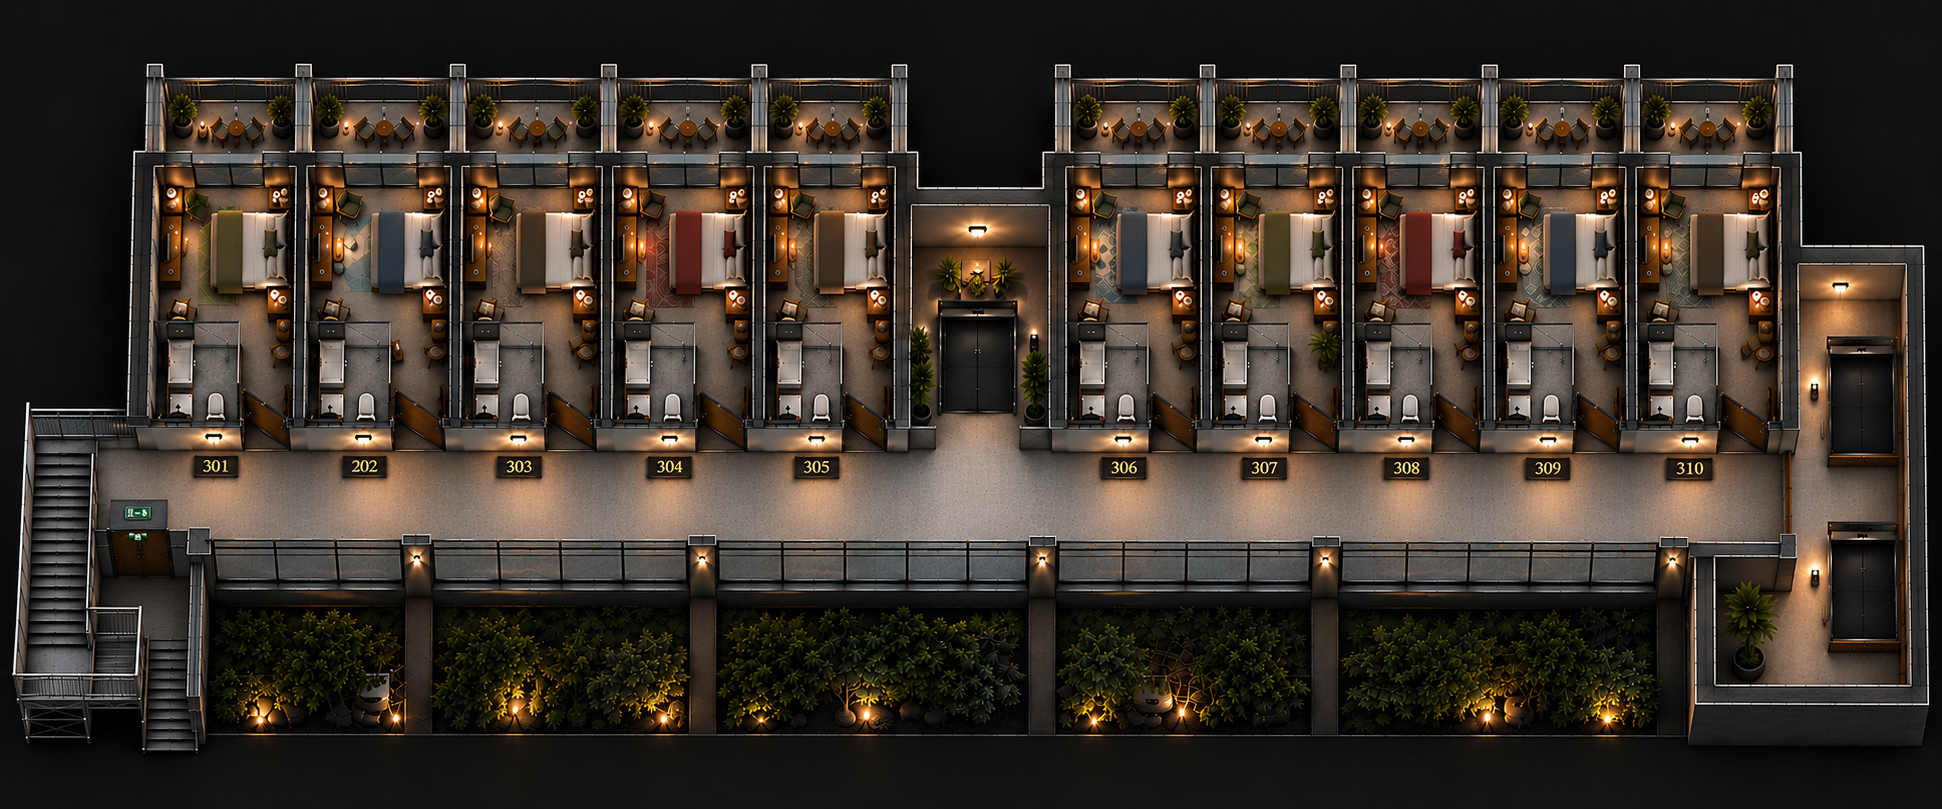
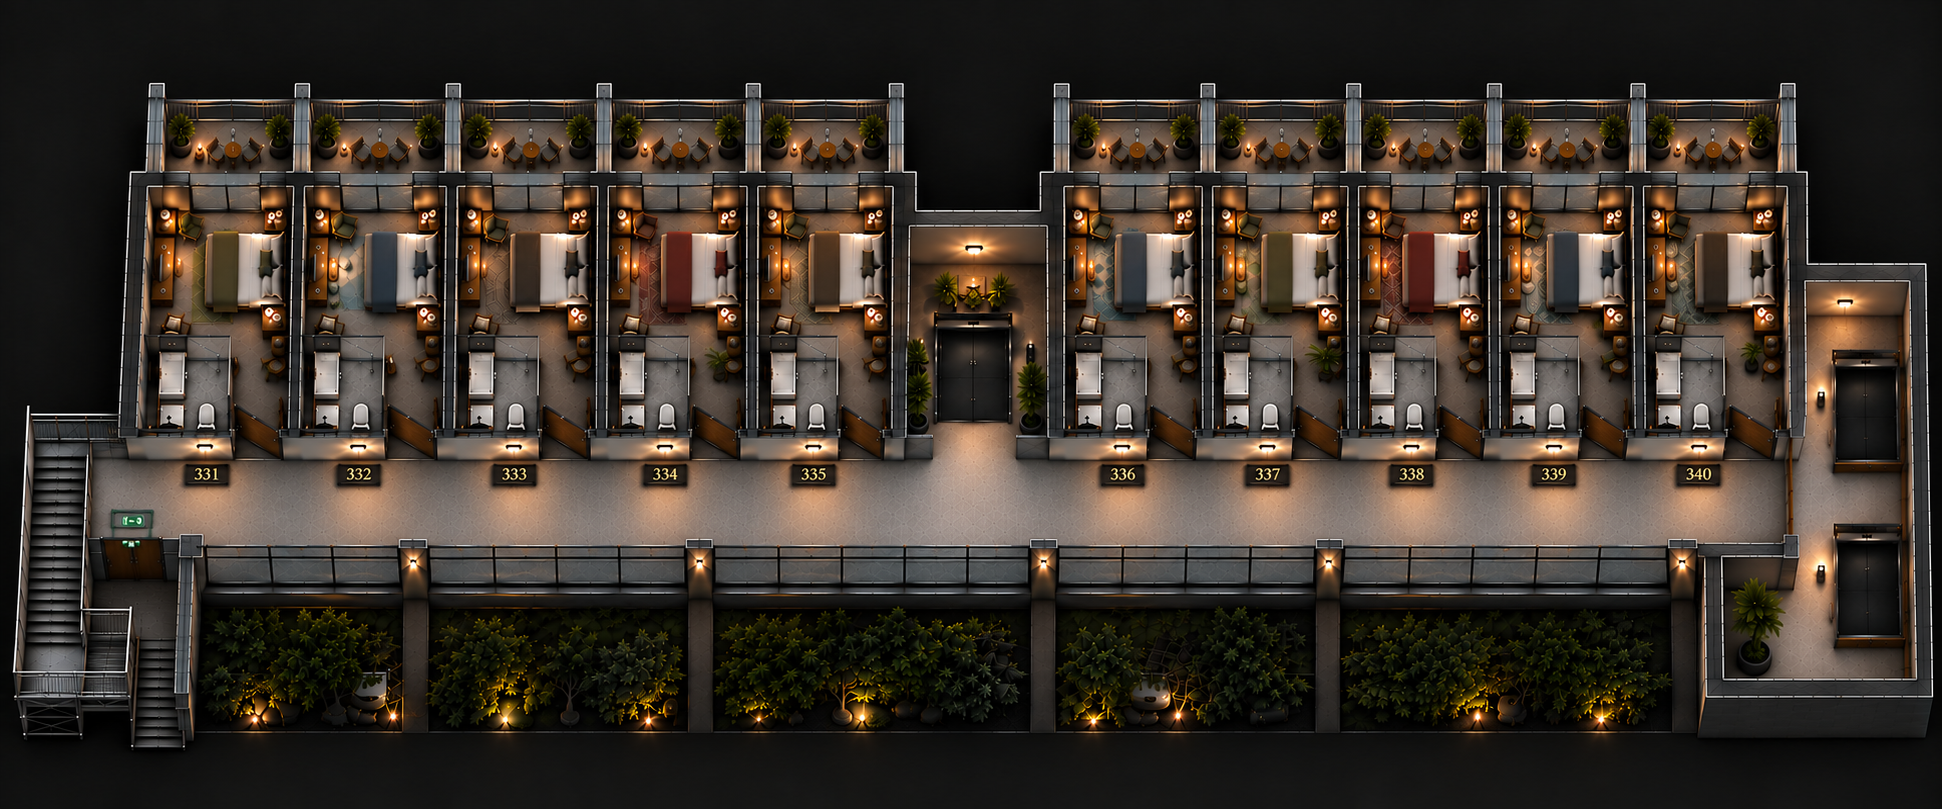
vault backup: 2026-10-05 10:48:41

diff --git a/``Le Feu moderne``/Scénario/Session 1.md b/``Le Feu moderne``/Scénario/Session 1.md
@@ -1,13 +1,18 @@
+- INFO : la bibliothécaire est une fan de théorie du complot
+- 
+- 
 - Au début, les joueurs tirent chacun 1 papier (les papiers vont de 335 à 340), ça détermine dans quelle chambre ils se réveillent.
 	- Si aucun ne tire la 337, William s'y réveille.
-	- Si quelqu'un tire la 337, je pioche moi-même un des papiers pour déterminer là où William se réveille.
+	- Si quelqu'un tire la 337, il est dans celle qui reste.
 
 ### Introduction
-"*Vous étiez chez vous ou ailleurs. Peut-être sur la route ou au travail. Vous faisiez votre vie. Vous aviez peut-être des problèmes ou non, il se peut que votre vie soit des plus monotones et tranquilles. Dans tous les cas, ce soir-là, vous vous êtes senti très fatigué. Votre corps était lourd, endolori comme si vous veniez de passer une journée à courir. Vos yeux se sont fermés puis rouverts, vous avez clignés$ des paupières avant de les fermer.*
+"*Vous étiez chez vous ou ailleurs. Peut-être sur la route ou au travail. Vous faisiez votre vie. Vous aviez peut-être des problèmes ou non, il se peut que votre vie soit des plus monotones et tranquilles. Dans tous les cas, ce soir-là, vous vous êtes senti très fatigué. Votre corps était lourd, endolori comme si vous veniez de passer une journée à courir. Vos yeux se sont fermés puis rouverts, vous avez clignés des paupières avant de les fermer.*
 
 *À votre réveil, vous êtes dans une chambre. Le corps encore un peu fatigué, la bouche pâteuse… Vous percevez le bruit des vagues au milieu d'un silence surnaturel. L'air salin emplit vos narines. En vous relevant, vous sentez que votre cou est lourd, il vous fait mal. Vous le touchez pour vous rendre compte de ce collier de métal. Il est collé contre votre peau et si vous essayez de le bouger, vous ressentez une douleur dans votre nuque : quelque chose s'enfonce dans votre peau et retirer ce collier pourrait être fatal.*"
 
-Quand ils se réveillent, ils doivent tous faire un jet de **PER x2**. Description des chambres et, s'il y a des réussites, ceux-là ont remarqué, dans certains coins du plafond, des caméras cachées en trompe-l'œil, en jouant avec l'obscurité des coins.
+Les joueurs qui observent la pièce : Un jet de **PER x2**. Description des chambres et, s'il y a des réussites, ceux-là ont remarqué, dans certains coins du plafond, des caméras cachées en trompe-l'œil, en jouant avec l'obscurité des coins.
+
+![[Hôtel-Session-1.png]]
 
 ### Les chambres
 Toutes les chambres sont aménagées comme le sont celles d'un hôtel : un lit, des tables de chevet, une commode avec une TV, une télécommande et même un programme télé de la semaine d'où arrivent les occupants (*ainsi, dans la chambre 121, le magazine date de 2015, la semaine où Elowen a été enlevée*), une salle de bain avec baignoire, évier, toilettes et une terrasse qui donne vers la plage et la mer. À l'entrée, il y a un petit bloc avec une carte insérée, qui est la carte de la chambre. En la retirant, le courant se coupe dans la chambre. Si les PJ's sortent, sans la prendre, ils ne peuvent plus revenir.
@@ -34,6 +39,5 @@ La TV, si on l'allume, ne montre rien.
 ***Dans tous les cas***, à partir du moment où le groupe le voit mort, je lance un compteur de 10 secondes. Après les 10 secondes, ils entendent un grognement. William se relève. Ceci est le premier indice pour le Virus-T Prometheus : il peut être latent et ils sont tous contaminés, il s'activera lors de la mort, même naturelle.
 
 ### Les ascenseurs
-
 
 ### La radio militaire
